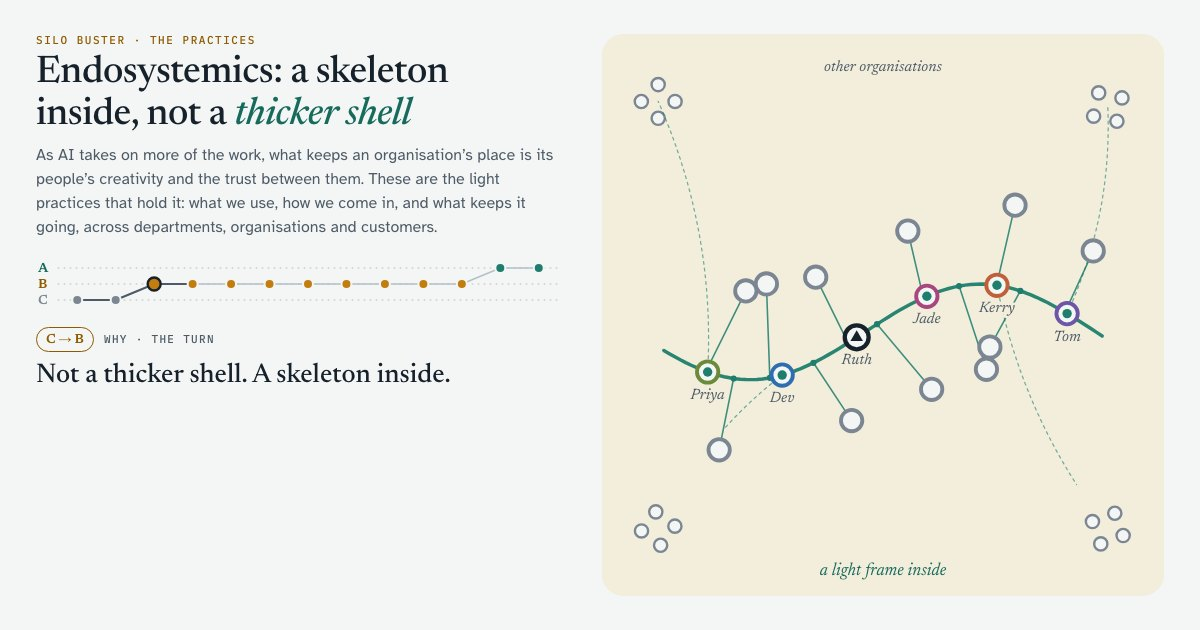
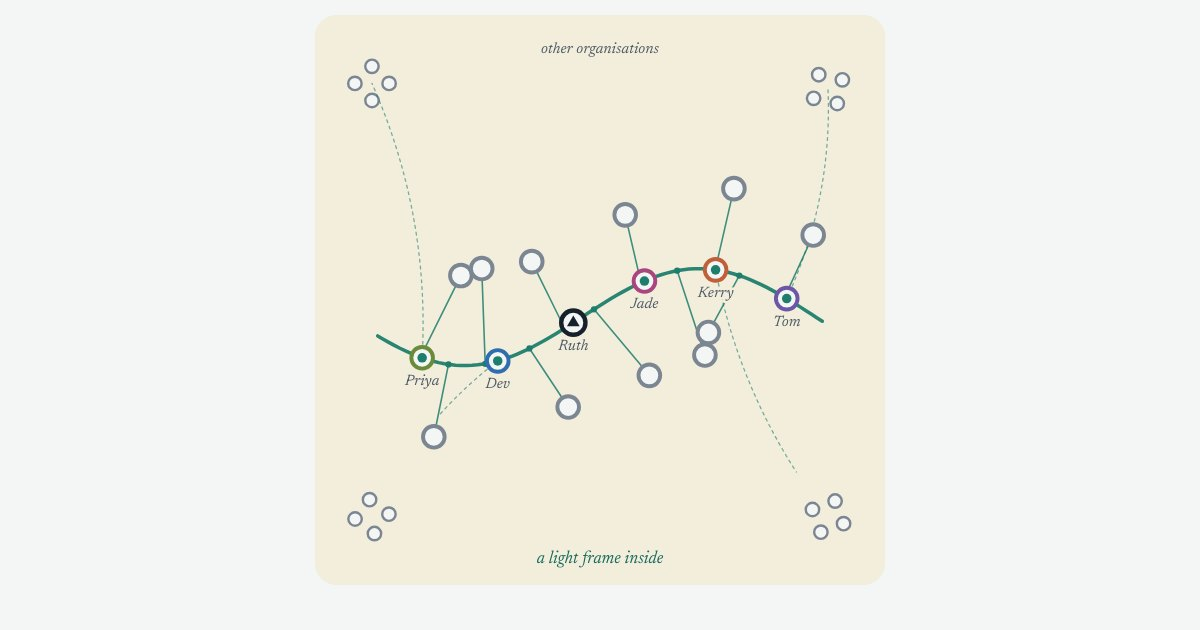
animations: Endosystemics in Practice's still is its stage alone, centred, so the gallery's crop keeps it (#591)
At David's word: "Merge it for me". The gallery crops each still to 3:2 from its centre and the first still lost half its title to it; the still is now the scene The turn with its stage alone, centred on the film's paper. CLAUDE.md's row says so.

diff --git a/CLAUDE.md b/CLAUDE.md
@@ -28,7 +28,7 @@ This repo is **David's personal site** at https://happyseaurchin.com — the lan
 | `animations/silo-buster-path.html` | Silo Buster Path (24 Oct 2026): the film David brought for Silo Buster, James Howard's programme with him, thirteen scenes drawn in code, carried as it came with a head for the site, its still and a home line. Since the same day it takes comments through the kit (`says.js`, timed): it loads `theme.js` and brings its own ◐ (the home line is its `#create-your-own`), its player gives the kit its hooks on `window.__sb` (`scenes`, `current`, `playing`, `play`, `pause`, `onChange`), and the kit's accent is the A state's green. One button under the controls, Comment on this scene, works at any moment; the film never stops by itself to ask (the first cut's Pause for comments toggle and stop at each scene's end were taken out the same day at David's word: "too confusing … no auto stop for comments"). Each comment stands in `silo-buster-path:<handle>` at its scene's place on `spine:silo-buster-path` (the scenes' own words, each with its Hollin & Grey example at 2; law `function:silo-buster-path`, both under the shared project lock); no room of its own. The control row is tightened at 380px and below, where its five buttons had pushed the page sideways. |
 | `animations/before-it-breaks.html` | Before It Breaks (27 Oct 2026): the AI wave, and how an organisation catches it, a film in eleven scenes David brought that day: the swell that began with ChatGPT in November 2022, where we are on it (just before the peak), the later you leave it the faster you must go, those it breaks on (C) and those who ride it badly and make slop, then, proposed, one question that finds who is already surfing, a room within a day that decides and a fast drop, and the aim, everyone on the same wave (B) and hanging ten in the tube (A). It has a second version, Ride the Barrel, and the two say into one family and one pool (David: "two versions of the wave, again they connect to the same pool AI wave"). Comments go through the kit (`says.js`, timed): one button under the controls, Comment on this scene, each comment in `ai-wave:<handle>` at its scene's step on `spine:ai-wave`, whose first ten steps are the scenes both films share (law `function:ai-wave`, both under the shared project lock); the window starts from the reader's own comment on that scene. The closing card's Go to the pool, the window's foot and the home line open `pool:ai-wave`. Carried as it came, with a page head where the claude.ai artifact skeleton stood, Share it forward handing on this page instead of the private artifact it was drawn in, the player's hooks for the kit on `window.__film` (`scenes`, `current`, `playing`, `play`, `pause`, `onChange`), its own ◐ at the end of the controls and a home line linking the other version; its still, `animations/before-it-breaks.jpg`, is the scene We are here, just before the peak. |
 | `animations/ride-the-barrel.html` | Ride the Barrel (27 Oct 2026): the AI wave, and the people who want to ride inside it, Before It Breaks' other version in thirteen scenes at dusk: the same first ten, then the barrel in three (catch it, ride it all the way through, out into the light), the A state as line of sight, balance and courage. Wired as Before It Breaks is, into the same family `ai-wave` and the same pool `pool:ai-wave`; its last three scenes stand at the spine's 1.1111111111, 1.11111111111 and 1.111111111111, the first shared with Before It Breaks' tube, each film's own words for that scene in its side-rooms 2 and 3. Its still, `animations/ride-the-barrel.jpg`, is the scene Catch the barrel. |
-| `animations/endosystemics-in-practice.html` | Endosystemics in Practice (29 Oct 2026): keel's film of Silo Buster's practices, made in the claude.ai Project Keel and brought by David the same day: a light skeleton inside an organisation instead of a thicker shell, in thirteen scenes with the state (C, B or A) traced above them, from why (the shell, the blocker, the turn) through what we use (proposal and thread, the schematic, the now, the meeting, conversation through action) and how we come in (an hour, a half-day, a day, ten days) to what holds it (the rhythm); Example and Words lay Hollin & Grey, Silo Buster Path's invented firm, and the narration over the bare structure. Carried as it came (the export was 92,086 bytes, sha256 `730b6e99…aa38`), with a page head where the claude.ai artifact skeleton stood, Share it forward handing on this page instead of the private artifact, the player's hooks for the kit on `window.__film` beside keel's frame checker (`scenes` by their short names, `current`, `playing`, `play`, `pause`, `onChange`), a ◐ at the end of the controls and a home line ending the foot. Comments go through the kit (`says.js`, timed): one button under the controls, Comment on this scene, each comment in `endosystemics-in-practice:<handle>` at its scene's step on `spine:endosystemics-in-practice`, which carries the scenes' own words with each Hollin & Grey example at 2 (law `function:endosystemics-in-practice`, both under the shared project lock). Its room is AI Inoculation's, `pool:ai-inoculation`, where the closing card's Ask for the hour already goes, and the kit's window links it; the film keeps no room of its own. Its still, `animations/endosystemics-in-practice.jpg`, is a card of the scene The turn: the title, the state strip and the caption beside the stage. |
+| `animations/endosystemics-in-practice.html` | Endosystemics in Practice (29 Oct 2026): keel's film of Silo Buster's practices, made in the claude.ai Project Keel and brought by David the same day: a light skeleton inside an organisation instead of a thicker shell, in thirteen scenes with the state (C, B or A) traced above them, from why (the shell, the blocker, the turn) through what we use (proposal and thread, the schematic, the now, the meeting, conversation through action) and how we come in (an hour, a half-day, a day, ten days) to what holds it (the rhythm); Example and Words lay Hollin & Grey, Silo Buster Path's invented firm, and the narration over the bare structure. Carried as it came (the export was 92,086 bytes, sha256 `730b6e99…aa38`), with a page head where the claude.ai artifact skeleton stood, Share it forward handing on this page instead of the private artifact, the player's hooks for the kit on `window.__film` beside keel's frame checker (`scenes` by their short names, `current`, `playing`, `play`, `pause`, `onChange`), a ◐ at the end of the controls and a home line ending the foot. Comments go through the kit (`says.js`, timed): one button under the controls, Comment on this scene, each comment in `endosystemics-in-practice:<handle>` at its scene's step on `spine:endosystemics-in-practice`, which carries the scenes' own words with each Hollin & Grey example at 2 (law `function:endosystemics-in-practice`, both under the shared project lock). Its room is AI Inoculation's, `pool:ai-inoculation`, where the closing card's Ask for the hour already goes, and the kit's window links it; the film keeps no room of its own. Its still, `animations/endosystemics-in-practice.jpg`, is the scene The turn, its stage alone and centred on the film's paper, so the gallery's 3:2 crop keeps all of it (a first still laid the title beside the stage, and the crop cut the title). |
 | `who-owns-the-shell.html` | Who owns the shell? (24 Oct 2026), at `/who-owns-the-shell` (`/everyone` redirects there, `vercel.json`): keel's page laying Mark Zuckerberg's The Future is for Everyone, what Meta has built since, and the beach side by side in ten parts, each a picture that draws itself with its words written out beside it, then the nine themes side by side. It is carried as it stands, its own palette and light or dark following the site's ◐; only the data centre photo moved to Wikimedia's 1280px thumbnail host, as its other photos already were. Under the two photos at the top, at David's word, an obvious link to Zuckerberg's essay (under Meta's shell, in Meta's blue) and an arrow down to the beach's version (under the crab's own, in its violet). As on Nearly There, the page pauses after each of its four groups of parts: what Meta said and built (1 and 2), the technical ecosystem (3 to 5), the agents (6 and 7), and money and reach (8 to 10, keel's note last). The nine themes of Side by side fall the same way. Each pause is a screen and a third holding the group's name, one bubble, 'Add your observation', and beneath it 'See everyone else's observations' with their count, both opening the same card. An observation goes through `beachVoice.say` into `who-owns-the-shell:<handle>` at the part's address on `spine:who-owns-the-shell` (four groups down its 1, from 1 to 1.111, each part whole in its group's side-rooms; re-cut from ten steps, one per part, the same afternoon at David's word, before anyone had said, the first cut kept at `archive:spine:who-owns-the-shell:2026-10-24`; a document family, law `function:who-owns-the-shell`, both under the shared project lock), and everyone's read back through `/api/mirrors`. After Side by side comes one door, 'Go to the pool', the page's own room `pool:who-owns-the-shell`, founded open. It loads `theme.js` for `keepDraft` and `dictate`, and brings its own ◐ and footer line. It and Nearly There stand on the gallery's Pages shelf, root 9 of the beach's `animations` block (David, 24 Oct: 'those should be on a different category, called pages'); its still is `animations/who-owns-the-shell.jpg`. |
 | `fotronic.html` + `fotronic/` | fotronic (26 Oct 2026), at `/fotronic`: Fortress as a minimal team snake, built as the spec at `spine:tronic-glass` 1.1 stands (its side-rooms 1.12 to 1.17; David's GO at 1.18). `fotronic/sim.js` is the simulation alone, an ES module the page imports: it takes (law, seats, events) and steps at a fixed 120 ticks a second, deterministic, the bots' only randomness one seeded LCG; the law is one settings object named as Armagetron names them (1.151), the map's numbers at its end, so a cup can hand it a law by address; inputs are events `{tick, seat, action}` with L, R, BRAKE_ON and BRAKE_OFF through `apply()`, and `botEvents()` returns what the bots would send so they go through the same transport; `resultLine()` is the line of 1.172. `fotronic/checks.mjs` runs the DONE WHEN checks of 1.162 headless (`node fotronic/checks.mjs`, a name's part runs one), plus determinism; all must pass before a push. The page wears the grid's own night (Orbitron, the Ladle's blue #4488ff and gold #ffff44), not `theme.css`, and loads no `theme.js`: no bar, no write box, no beach button, so none of their duties apply; its only text box is the handle. It is opened by the beach as `?match=&team=&seat=&handle=` (1.172) and plays locally without; the start screen picks the team size and the seat a person takes on each team, bots fill the rest; one human uses the arrows (↓ brakes), two on one keyboard blue A D S and gold the arrows, a phone taps either half of the arena and holds BRAKE; `transport.send`/`onEvent` is a local loop (1.17). NOT YET (1.163): online play, accounts, chat, other maps, more teams, respawning, the win zone, spectators. |
 | `lanes.html` | `/lanes/<hand>[+<hand>…]` (20 Oct 2026): a hand's own record on the beach — weft's pile `watch:weft`, anyone else's `history:<handle>` — read from its newest containers and drawn two ways, chosen under the view switch and kept per device (`lanes:view`). **fern** (the default): every lane sprouts at the top of a golden spiral and the next to sprout pushes it one step clockwise, five steps from the top round the right to the bottom, a quarter turn smaller by φ, so the newest fill the screen and the older curl away into the lower-left (David, 21 Oct: "the most recent branches taking up most of the screen … the spiral zooming off into the distance in the corner"); the big fronds end in their fruit — the lane's name, ▶ its session (its own, named in its first account or on a line 'the session: …', else the cloud session its first pull request names), and what it made, every line a real link; a lane's place is its rank by when it BEGAN and nothing else, so it stands where it stood last time (David: "something stable"); each turn a knot, what it made a leaf by kind; the frame is a constant, never fitted to the data; turning the curl back (wheel, or the dial) is one rotation and one enlargement about its eye, and reads further back in the record as it nears the oldest lane. **threads**: each day a strip of 24 hours, a thread per lane. Both share the reading: lane names from each entry's opening, turns beneath, what a turn made lifted from its words (repo + #n a pull request, its state from GitHub's public API; site paths HEAD-checked once; `proposals/…` a document; claude.ai links apps and sessions; a card's `5 = <family>-path n` a part), "yours to pick up" first, and a person's own now line above each day (`?days=<handle>`). Writes nothing. |
